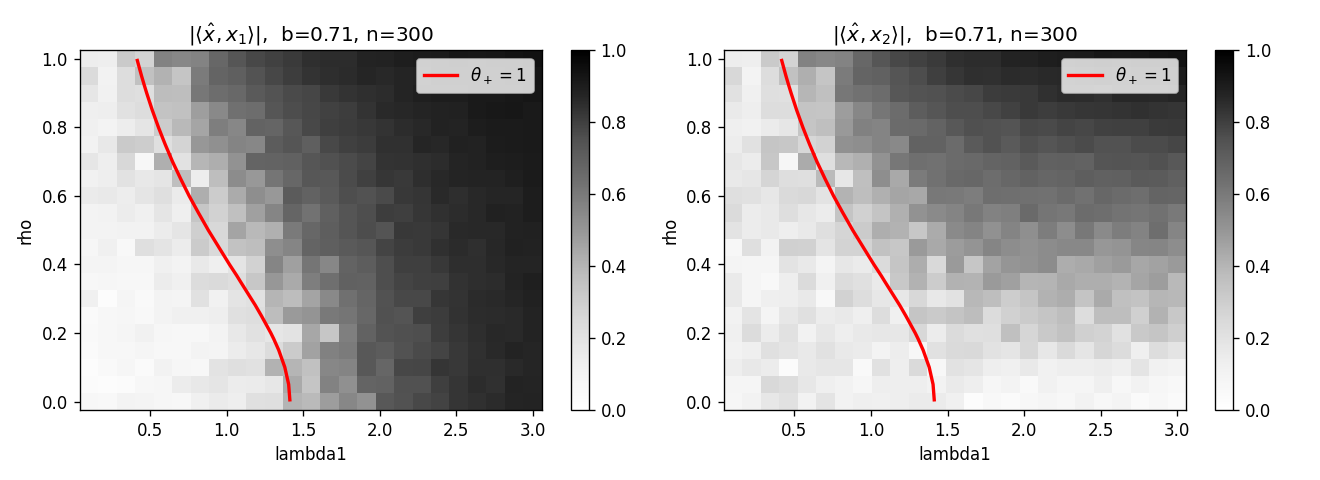
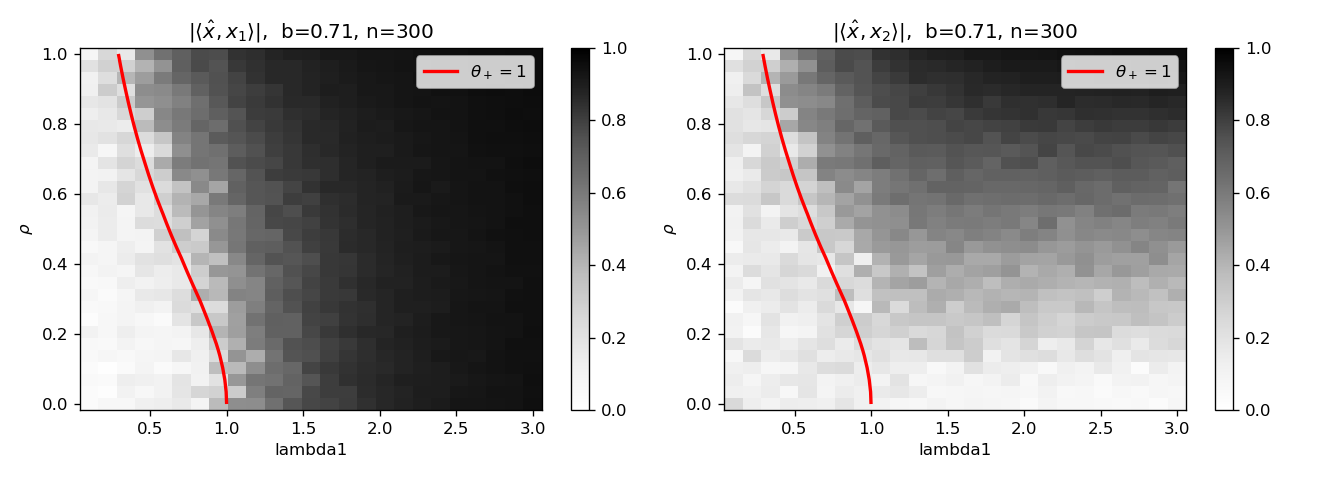
rapport et plots

diff --git a/Theory/Report/main.tex b/Theory/Report/main.tex
@@ -1,4 +1,8 @@
 \documentclass[11pt]{article}
+% macro.tex loads enumitem and geometry twice, the second time with options.
+% Loading them here first (with those options) avoids the fatal "Option clash".
+\usepackage[shortlabels]{enumitem}
+\usepackage[hmargin=2cm,vmargin=2cm]{geometry}
 
 \input{macro.tex}
 
@@ -32,7 +36,7 @@ We define the spiked model as
     \label{norm2}
 \end{equation}
 \end{defn}
-For two corrolated spikes, we define:
+For two correlated spikes, we define:
 \begin{defn}[Multi-Task Spiked Wigner Model]\leavevmode\\
     Let $\lambda_1, \lambda_2 \in \R$ the signal-to-noise ratio per task and $\vect x_1, \vect x_2 \in \R^n$, with $\norm{\vect x_1} = \norm{\vect x_2} = 1$ the correlated signals per task from a multivariate Gaussian Prior:
     \begin{align}
@@ -120,7 +124,7 @@ In particular, weak recovery by PCA is possible if and only if \(\lambda>1\).
 
 \subsection{Eigenvalues of the signal matrix}
 
-\paragraph{Reduction to a spiked Wigner model (splitting the observation into noiseless $+$ noise):}
+\paragraph{Reduction to a spiked Wigner model:}
 We study what the behaviour of a two correlated spike should theoretically be, and compare that to simulations.\\
 The observable splits into a noise part and a low rank signal part:
 \begin{equation}
@@ -136,24 +140,23 @@ Since $\rdmmat Z_1$ and $\rdmmat Z_2$ are independent with entries of variance $
 \noindent
 \textbf{Which matrix are we working with?} The whole section alternates between two different matrices, and it is worth fixing the vocabulary once and for all:
 \begin{itemize}[topsep=2pt,itemsep=1pt]
-    \item the \emph{noiseless} (or signal) matrix $\rdmmat P$, of rank at most two. It is not observable --- it is the object we can diagonalise exactly, in closed form, because it contains no randomness beyond the signals themselves;
+    \item the \emph{noiseless} (or signal) matrix $\rdmmat P$, of rank at most two. It is not observable, it is the object we can diagonalise exactly, in closed form, because it contains no randomness beyond the signals themselves;
     \item the \emph{noisy} (or observed) matrix $\rdmmat Y = \rdmmat P + \rdmmat W$. This is what we actually measure, and its spectrum can only be described asymptotically, through random matrix theory.
 \end{itemize}
-The strategy is: solve $\rdmmat P$ exactly (Sections up to \eqref{eq:overlaps-signals}), then feed that solution into the BBP theory to get $\rdmmat Y$ (from \eqref{eq:bbp} on). To keep the two apart, we reserve a distinct set of symbols for each:
+The strategy is: solve $\rdmmat P$ exactly, then feed that solution into the BBP theory to get $\rdmmat Y$. To keep the two apart, we reserve a distinct set of symbols for each:
 \begin{center}
 \begin{tabular}{l|l|l}
  & \textbf{noiseless} $\rdmmat P$ & \textbf{noisy} $\rdmmat Y = \rdmmat P + \rdmmat W$ \\
 \hline
 eigenvalues     & $\theta_\pm$ (exact, \eqref{eq:theta-pm})        & $\lambda^{\mathrm{out}}_\pm$ (asymptotic, \eqref{eq:bbp}) \\
-eigenvectors    & $\hat{\vect v}_\pm$ (exact, \eqref{eq:v-final})  & $\hat{\vect u}_\pm$ (asymptotic, \eqref{eq:bbp-vec}) \\
-top eigenvector & ---                                              & $\hat{\vect x} := \hat{\vect u}_+$, the estimator of the signals \\
-overlaps        & $\langle \hat{\vect v}_\pm, \vect{x_i}\rangle$, \eqref{eq:overlaps-signals} & $m_i = |\langle \hat{\vect x}, \vect{x_i}\rangle|$, \eqref{eq:m12} \\
+eigenvectors    & $\hat{\vect v}_\pm$ (exact, \eqref{eq:v-final})  & $\hat{\vect u}_\pm$ (asymptotic, \eqref{eq:bbp-vec}) = $\hat{\vect x}$ for naïve method only \\
+overlaps        & $|\langle \hat{\vect v}_\pm, \vect{x_i}\rangle|$, \eqref{eq:overlaps-signals} & $m_i = |\langle \hat{\vect x}, \vect{x_i}\rangle|$, \eqref{eq:m12} \\
 \end{tabular}
 \end{center}
 \noindent
 Note finally that $\lambda_1, \lambda_2$ always denote the signal-to-noise ratios of the two tasks, never eigenvalues; eigenvalues of $\rdmmat P$ are written $\theta$.
 
-\paragraph{Factorised form (noiseless $\rdmmat P$):}
+\paragraph{Factorised form:}
 Since $\rdmmat P$ is built from two rank 1 signals, it has a rank of at most two and its spectrum is determined by the plane $\operatorname{span}(\vect{x_1},\vect{x_2})$. We write
 \begin{equation}
     \rdmmat P = \rdmmat X \rdmmat K \rdmmat X^T
@@ -186,7 +189,7 @@ and as $\rdmmat{BA} = \rdmmat{KX^TX} $ so the non-zero eigenvalues of $\rdmmat P
 \end{equation}
 where $\rdmmat G$ is defined as shown above and we used $\|\vect{x_1}\| = \|\vect{x_2}\| = 1$. The remaining $n-2$ eigenvalues of $\rdmmat P$ are zero.
 
-\paragraph{Empirical vs theoretical overlap (signals only, no matrix involved):}
+\paragraph{Empirical vs theoretical overlap:}
 As the spikes are correlated, the pairs $(x_{1,i},x_{2,i})$ are i.i.d.\ with $\mathbb{E}[x_{1,i}x_{2,i}] = \rho$, so by the law of large numbers the empirical overlap concentrates around the correlation $\rho$:
 \begin{equation}
     \hat\rho = \frac{\langle \vect{x_1},\vect{x_2}\rangle}{\|\vect{x_1}\|\,\|\vect{x_2}\|} \xrightarrow[n\to\infty]{\text{a.s.}} \rho
@@ -233,7 +236,7 @@ We now derive the eigenvectors of $\rdmmat P$ in closed form. We assume $a, b > 
 \end{equation}
 and we assume $\Delta > 0$, i.e.\ we exclude the degenerate case $a = b$, $\rho = 0$, in which $\theta_+ = \theta_-$ and every vector of $\operatorname{span}(\vect{x_1},\vect{x_2})$ is an eigenvector.
 
-\paragraph{Going to the plane of the signals (méthode de Celia) --- still noiseless $\rdmmat P$:} Let $\vect v$ be a unit eigenvector of $\rdmmat P$ with eigenvalue $\theta \neq 0$. Since
+\paragraph{Going to the plane of the signals (méthode de Celia):} Let $\vect v$ be a unit eigenvector of $\rdmmat P$ with eigenvalue $\theta \neq 0$. Since
 \begin{equation}
     \rdmmat P \vect v = a\,\langle \vect{x_1}, \vect v\rangle\,\vect{x_1} + b\,\langle \vect{x_2}, \vect v\rangle\,\vect{x_2} = \theta\,\vect v ,
 \end{equation}
@@ -265,7 +268,7 @@ A non-trivial solution exists if and only if $\theta \in \{\theta_+, \theta_-\}$
 \end{equation}
 where the two expressions for $r_\pm$ agree precisely because of the characteristic equation. For the same reason, the second row of \eqref{eq:eig-system} is then automatically satisfied.
 
-\paragraph{Normalisation (noiseless $\rdmmat P$):} Using $\norm{\vect{x_1}} = \norm{\vect{x_2}} = 1$ and $\langle \vect{x_1},\vect{x_2}\rangle = \rho$,
+\paragraph{Normalization:} Using $\norm{\vect{x_1}} = \norm{\vect{x_2}} = 1$ and $\langle \vect{x_1},\vect{x_2}\rangle = \rho$,
 \begin{equation}
     \norm{\vect v}^2 = c_1^2 + 2\rho\, c_1 c_2 + c_2^2
     = c_2^2\,\big( r_\pm^2 + 2\rho\, r_\pm + 1 \big) = 1
@@ -274,7 +277,7 @@ where the two expressions for $r_\pm$ agree precisely because of the characteris
 \end{equation}
 The bracket is strictly positive, since $r^2 + 2\rho r + 1 = (r+\rho)^2 + 1 - \rho^2 > 0$.
 
-\paragraph{Final expression for the eigenvectors of the noiseless $\rdmmat P$:} Combining \eqref{eq:ratio} with the normalisation, the unit-norm eigenvectors of $\rdmmat P$ associated with $\theta_\pm$ are, up to an overall sign,
+\paragraph{Final expression for the eigenvectors of the noiseless $\rdmmat P$:} Combining \eqref{eq:ratio} with the normalization, the unit-norm eigenvectors of $\rdmmat P$ associated with $\theta_\pm$ are, up to an overall sign,
 \begin{equation}
     \hat{\vect v}_\pm = c_1^\pm\,\vect{x_1} + c_2^\pm\,\vect{x_2},
     \qquad
@@ -283,9 +286,6 @@ The bracket is strictly positive, since $r^2 + 2\rho r + 1 = (r+\rho)^2 + 1 - \r
     r_\pm = \frac{\rho\, a}{\theta_\pm - a} .
     \label{eq:v-final}
 \end{equation}
-In plain words: $\rdmmat P$ only acts inside the plane spanned by $\vect{x_1}$ and $\vect{x_2}$, so each of its two eigenvectors is simply a \emph{mixture} of the two signals. All the content of \eqref{eq:v-final} is the single number $r_\pm = c_1^\pm/c_2^\pm$, which fixes the weight of the mixture; the square root is only there to impose $\norm{\hat{\vect v}_\pm} = 1$, and it carries the extra term $2\rho\, r_\pm$ precisely because $\vect{x_1}$ and $\vect{x_2}$ are \emph{not} orthogonal. Since $\theta_+ \ge \max(a,b)$ and $\theta_- \le \min(a,b)$, we have $r_+ \ge 0$ and $r_- \le 0$: $\hat{\vect v}_+$ is the constructive combination of the two signals, and $\hat{\vect v}_-$ the destructive one. We insist that $\hat{\vect v}_\pm$ are eigenvectors of the \emph{noiseless} $\rdmmat P$; they are not observable, and they are not yet the estimator of the signals.
-
-\paragraph{The decoupled case $\rho = 0$ (noiseless $\rdmmat P$):} The ratio $r_\pm = \rho a/(\theta_\pm - a)$ becomes the indeterminate form $0/0$ when $\rho = 0$ and $\theta_\pm = a$, so at $\rho = 0$ it has to be read as a limit. It is cleaner to go back to \eqref{eq:eig-system}, which for $\rho = 0$ decouples into $a c_1 = \theta c_1$ and $b c_2 = \theta c_2$: then $\{\theta_+,\theta_-\} = \{a,b\}$ and the eigenvectors are $\vect{x_1}$ and $\vect{x_2}$ themselves, i.e.\ the two tasks separate completely. Numerically, the safe way to obtain $(c_1^\pm, c_2^\pm)$ for \emph{any} $\rho$ is to diagonalise the $2\times2$ matrix $\rdmmat K \rdmmat G$ directly instead of evaluating $r_\pm$.
 
 \paragraph{Overlaps of the noiseless eigenvectors with the signals:} The overlaps of $\hat{\vect v}_\pm$ with the signals follow directly from \eqref{eq:ansatz} and \eqref{eq:eig-system}, since $c_1 + \rho c_2 = \theta c_1/a$ and $\rho c_1 + c_2 = \theta c_2/b$:
 \begin{equation}
@@ -294,76 +294,61 @@ In plain words: $\rdmmat P$ only acts inside the plane spanned by $\vect{x_1}$ a
     \langle \hat{\vect v}_\pm, \vect{x_2}\rangle = \frac{\theta_\pm}{b}\, c_2^\pm .
     \label{eq:overlaps-signals}
 \end{equation}
-The point of \eqref{eq:overlaps-signals} is that the \emph{coefficients} $c_i^\pm$ (how much of each signal we put into the mixture) are not the same thing as the \emph{overlaps} $\langle \hat{\vect v}_\pm, \vect{x_i}\rangle$ (how much of each signal we actually see), again because $\vect{x_1}$ and $\vect{x_2}$ are not orthogonal; the factors $\theta_\pm/a$ and $\theta_\pm/b$ convert one into the other. Equation \eqref{eq:overlaps-signals} is the last exact, noiseless result of this section: everything that follows concerns the observed matrix $\rdmmat Y$ and holds only asymptotically.
+Eq. \eqref{eq:overlaps-signals} shows that the \emph{coefficients} $c_i^\pm$ (how much of each signal we put into the mixture) are not the same thing as the \emph{overlaps} $\langle \hat{\vect v}_\pm, \vect{x_i}\rangle$ (how much of each signal we actually see), because $\vect{x_1}$ and $\vect{x_2}$ are not orthogonal.
 
 \medskip
 \noindent
-Equation \eqref{eq:overlaps-signals} also gives a useful identity. Multiplying its first relation by $a\,\langle \hat{\vect v}_\pm, \vect{x_1}\rangle$, its second by $b\,\langle \hat{\vect v}_\pm, \vect{x_2}\rangle$, adding, and using the normalisation $c_1^2 + 2\rho c_1 c_2 + c_2^2 = 1$, we get
-\[
+Multiplying the first relation in Eq. \eqref{eq:overlaps-signals} by $a\,\langle \hat{\vect v}_\pm, \vect{x_1}\rangle$, its second by $b\,\langle \hat{\vect v}_\pm, \vect{x_2}\rangle$, adding, and using the normalization $c_1^2 + 2\rho c_1 c_2 + c_2^2 = 1$, we get
+\begin{equation}
     \theta_\pm \;=\; \hat{\vect v}_\pm^{\,T}\, \rdmmat P\, \hat{\vect v}_\pm
     \;=\; a\,\langle \hat{\vect v}_\pm, \vect{x_1}\rangle^2 + b\,\langle \hat{\vect v}_\pm, \vect{x_2}\rangle^2 .
-\]
-In other words, $\theta_\pm$ is exactly the signal-to-noise ratio of each task weighted by how well the direction $\hat{\vect v}_\pm$ captures that task. This is what makes $\theta_\pm$ an \emph{effective SNR}, and it is the bridge between the noiseless geometry \eqref{eq:overlaps-signals} and the noisy spectrum \eqref{eq:bbp} below: $\theta_\pm$ is computed entirely from $\rdmmat P$, but it is the only feature of $\rdmmat P$ that the spectrum of $\rdmmat Y$ remembers.
+    \label{eq:theta-pm-relation}
+\end{equation}
 
-\medskip
-\noindent
-Still on the noiseless side: since $\rdmmat P$ is symmetric and $\theta_+ \neq \theta_-$, the two eigenvectors $\hat{\vect v}_\pm$ are orthogonal. The remaining $n-2$ eigenvectors span $\operatorname{span}(\vect{x_1},\vect{x_2})^\perp$ and have eigenvalue $0$. For a finite $n$, all the expressions above hold exactly with $\rho$ replaced by the empirical overlap $\hat\rho$; by \eqref{eq:overlap}, the expressions written with $\rho$ are their $n \to \infty$ limits.
+\paragraph{TO PROOVE:}
+We now study the noisy matrix $\rdmmat Y = \rdmmat P + \rdmmat W$. As $\rdmmat P$ has rank at most two, it can only create at most two outliers. Also, $\rdmmat W$ is a Wigner matrix, hence orthogonally invariant, so no direction of $\R^n$ is singled out by the noise. Therefore, the outliers can depend on $\rdmmat P$ only through its non-zero eigenvalues $\theta_\pm$, and never through the directions $\hat{\vect v}_\pm$ \textcolor{red}{WHY ?} This is what allows us to reuse the rank-one theory of Theorem~\ref{thm:bbp}.
 
-\paragraph{Switching on the noise: the outliers of the noisy matrix $\rdmmat Y$.}
-We now leave the noiseless matrix and turn to the observed one. Because $\rdmmat W$ is a Wigner matrix (rotationally invariant Gaussian noise), the outlier eigenvalues of $\rdmmat Y = \rdmmat W + \rdmmat P$ depend on the finite-rank perturbation $\rdmmat P$ only through its non-zero eigenvalues $\theta_\pm$ \cite{benaychgeorges2011eigenvalues, capitaine2009largest}. The Baik--Ben Arous--P\'ech\'e (BBP) transition \cite{baik2005phase, feral2007largest} then applies to each $\theta_\pm$ separately: with the normalisation of Definition~\ref{def:spiked-wigner}, the semicircle bulk has edge $2$ and
+
 \begin{equation}
     \lambda_\pm^{\mathrm{out}} \xrightarrow[n\to\infty]{\text{a.s.}}
     \begin{cases}
         \theta_\pm + \dfrac{1}{\theta_\pm}, & \theta_\pm > 1, \\[6pt]
-        2, & \theta_\pm \le 1 .
+        2, & \theta_\pm \le 1 ,
     \end{cases}
     \label{eq:bbp}
 \end{equation}
-The practical reading of \eqref{eq:bbp} is that, as far as the spectrum of $\rdmmat Y$ is concerned, the two correlated tasks behave like two \emph{independent} rank-one spiked Wigner models with SNRs $\theta_+$ and $\theta_-$: Theorem~\ref{thm:bbp} applies verbatim with $\lambda$ replaced by $\theta_\pm$. The correlation therefore acts in both directions: it can push $\theta_+$ above the detection threshold even when $a$ and $b$ are individually sub-critical, while pushing $\theta_-$ deeper into the bulk. In the $(a,b)$ plane the detection boundary $\theta_+ = 1$ is obtained by setting $\theta = 1$ in the characteristic polynomial of $\rdmmat K\rdmmat G$, which gives the curve
-\begin{equation}
-    1 - (a+b) + ab\,(1-\rho^2) = 0 ,
-    \qquad \text{with } a + b \le 2,
-    \label{eq:boundary}
-\end{equation}
-the condition $a + b \le 2$ selecting the branch on which the root equal to $1$ is the \emph{larger} one (the two roots sum to $a+b$, so the other root is $a+b-1$). The branch $a+b \ge 2$ of the same curve is $\theta_- = 1$, where the second outlier appears. For $\rho = 0$ the curve \eqref{eq:boundary} factorises as $(1-a)(1-b) = 0$ and reduces to the two BBP half-lines $a = 1,\, b \le 1$ and $b = 1,\, a \le 1$; for $\rho = 1$ it reduces to the line $a + b = 1$.
+which is the BBP transition applied to each effective signal separately. So that the two correlated tasks behave like two \emph{independent} rank-one spiked Wigner models with \emph{strengh} $\theta_+$ and $\theta_-$, and \eqref{eq:bbp} is exactly Theorem~\ref{thm:bbp} with $\lambda$ replaced by $\theta_\pm$.
 
-\paragraph{The eigenvectors of the noisy matrix $\rdmmat Y$.}
-The same theory \cite{benaychgeorges2011eigenvalues} describes the eigenvectors of the noisy matrix. Let $\hat{\vect u}_\pm$ denote the unit eigenvector of $\rdmmat Y$ associated with $\lambda_\pm^{\mathrm{out}}$; it is the noisy counterpart of the noiseless $\hat{\vect v}_\pm$, and \eqref{eq:bbp-vec} below says how close the two are. When $\theta_\pm > 1$ (and $\theta_+ \neq \theta_-$),
+\paragraph{The eigenvectors of the noisy matrix $\rdmmat Y$:}
+Let $\hat{\vect u}_\pm$ denote the unit eigenvector of $\rdmmat Y$ associated with $\lambda_\pm^{\mathrm{out}}$; it is the noisy counterpart of the noiseless $\hat{\vect v}_\pm$. \textcolor{red}{TO PROOVE:}
 \begin{equation}
     |\langle \hat{\vect u}_\pm, \hat{\vect v}_\pm \rangle|^2 \xrightarrow[n\to\infty]{\text{a.s.}} 1 - \frac{1}{\theta_\pm^{2}},
     \qquad
     \langle \hat{\vect u}_\pm, \hat{\vect v}_\mp \rangle \xrightarrow[n\to\infty]{\text{a.s.}} 0 ,
     \label{eq:bbp-vec}
 \end{equation}
-while for $\theta_\pm \le 1$ the overlap with $\hat{\vect v}_\pm$ vanishes; this is again Theorem~\ref{thm:bbp} with $\lambda$ replaced by $\theta_\pm$.
+valid for $\theta_\pm > 1$. For $\theta_\pm \le 1$ the overlap vanishes.
 
-\medskip
-\noindent
-Combining the noiseless geometry with the noisy damping is now straightforward. The noiseless eigenvectors $\hat{\vect v}_+$ and $\hat{\vect v}_-$ form an orthonormal basis of $\operatorname{span}(\vect{x_1},\vect{x_2})$, so each signal decomposes as
+\paragraph{Overlap of the estimator with the signals.}
+The spectral estimator of the signals is the top eigenvector $\hat{\vect x} := \hat{\vect u}_+$ of the noisy matrix. Its overlap with $\vect{x_1}$ and $\vect{x_2}$ now follows by combining the noiseless geometry \eqref{eq:overlaps-signals} with the noisy damping \eqref{eq:bbp-vec}. Since $\hat{\vect v}_+$ and $\hat{\vect v}_-$ form an orthonormal basis of $\operatorname{span}(\vect{x_1},\vect{x_2})$, each signal decomposes as
 \[
-    \vect{x_i} = \langle \vect{x_i}, \hat{\vect v}_+\rangle \hat{\vect v}_+ + \langle \vect{x_i}, \hat{\vect v}_-\rangle \hat{\vect v}_- .
+    \vect{x_i} = \langle \vect{x_i}, \hat{\vect v}_+\rangle\, \hat{\vect v}_+ + \langle \vect{x_i}, \hat{\vect v}_-\rangle\, \hat{\vect v}_- ,
 \]
-Taking the scalar product with the top eigenvector $\hat{\vect x} := \hat{\vect u}_+$ of the \emph{noisy} matrix $\rdmmat Y$,
+and taking the scalar product with $\hat{\vect x}$, the component of $\hat{\vect x}$ orthogonal to the plane contributes nothing,
 \[
     \langle \hat{\vect x}, \vect{x_i}\rangle
-    = \underbrace{\langle \hat{\vect u}_+, \hat{\vect v}_+\rangle}_{\to\ \sqrt{1-\theta_+^{-2}}\ \text{by }\eqref{eq:bbp-vec}}
+    =\langle \hat{\vect u}_+, \hat{\vect v}_+\rangle
       \langle \hat{\vect v}_+, \vect{x_i}\rangle
-    + \underbrace{\langle \hat{\vect u}_+, \hat{\vect v}_-\rangle}_{\to\ 0\ \text{by }\eqref{eq:bbp-vec}}
-      \langle \hat{\vect v}_-, \vect{x_i}\rangle ,
+    \;+\; \langle \hat{\vect u}_+, \hat{\vect v}_-\rangle
+      \langle \hat{\vect v}_-, \vect{x_i}\rangle .
 \]
-where the component of $\hat{\vect x}$ orthogonal to the plane contributes nothing because $\vect{x_i}$ lies in the plane. With \eqref{eq:overlaps-signals} this gives
+Seeing that $\langle \hat{\vect u}_+, \hat{\vect v}_+\rangle\to\ \sqrt{1-\theta_+^{-2}}\ \text{by }\eqref{eq:bbp-vec}$ and $\langle \hat{\vect u}_+, \hat{\vect v}_-\rangle \to\ 0\ \text{by }\eqref{eq:bbp-vec}$. Substituting $\langle \hat{\vect v}_+, \vect{x_1}\rangle = (\theta_+/a)\,c_1^+$ and $\langle \hat{\vect v}_+, \vect{x_2}\rangle = (\theta_+/b)\,c_2^+$ from \eqref{eq:overlaps-signals},
 \begin{equation}
     m_1 := |\langle \hat{\vect x}, \vect{x_1}\rangle| \xrightarrow[n\to\infty]{\text{a.s.}} \sqrt{1-\theta_+^{-2}}\;\frac{\theta_+}{a}\,\lvert c_1^+ \rvert ,
     \qquad
     m_2 := |\langle \hat{\vect x}, \vect{x_2}\rangle| \xrightarrow[n\to\infty]{\text{a.s.}} \sqrt{1-\theta_+^{-2}}\;\frac{\theta_+}{b}\,\lvert c_2^+ \rvert ,
     \label{eq:m12}
 \end{equation}
-for $\theta_+ > 1$, and $m_1, m_2 \to 0$ for $\theta_+ \le 1$. The structure of \eqref{eq:m12} is worth emphasising: it is a product of two independent effects. The factor $\sqrt{1-\theta_+^{-2}}$ is the \emph{noise damping} --- how much of the direction $\hat{\vect v}_+$ survives the Wigner noise, and it is the same for both tasks. The factors $(\theta_+/a)|c_1^+|$ and $(\theta_+/b)|c_2^+|$ are the \emph{pure geometry} of the noiseless signal matrix, and they say how the single recovered direction is shared between $\vect{x_1}$ and $\vect{x_2}$, through the ratio $r_+ = c_1^+/c_2^+$.
-
-\medskip
-\noindent
-Detection by the top eigenvector is therefore possible if and only if $\theta_+ > 1$, i.e.\ above the curve \eqref{eq:boundary}. One caveat: above that curve $m_2 > 0$ always (since $c_2^+ \neq 0$), whereas $m_1 > 0$ requires $r_+ \neq 0$, i.e.\ $\rho > 0$. In the decoupled case $\rho = 0$ the top eigenvector aligns with the stronger signal only ($\vect{x_1}$ if $a > b$, $\vect{x_2}$ if $a < b$) and carries no information at all about the other one; recovering the weaker signal then requires the \emph{second} eigenvector, i.e.\ $\theta_- > 1$.
-
-\paragraph{Numerical check.} Equations \eqref{eq:v-final}--\eqref{eq:m12} are checked against simulations in \texttt{Theory/check\_bulk.py}, which uses exactly the same conventions ($a = \alpha\lambda_1$, $b = \sqrt{1-\alpha^2}\lambda_2$, unit-norm signals, semicircle edge at $2$) and obtains $(c_1^+,c_2^+)$ by diagonalising $\rdmmat K\rdmmat G$ rather than through $r_+$. Its simulations always build the \emph{noisy} $\rdmmat Y$ (\texttt{naive\_matrix} $= \alpha \rdmmat Y_1 + \sqrt{1-\alpha^2}\rdmmat Y_2$) and compare it to the theory curves; the noiseless $\hat{\vect v}_\pm$ enter only as the reference directions of \texttt{overlaps\_vs\_lambda.png}.
+for $\theta_+ > 1$, and $m_1, m_2 \to 0$ for $\theta_+ \le 1$.
 
 \end{document}

diff --git a/Theory/check_theory.py b/Theory/check_theory.py
@@ -40,38 +40,4 @@ def plot_overlap_vs_n(ax, a, b, rho):
     ax.set_title(f"a={a}, b={b}, rho={rho}"); ax.legend(); ax.grid()
 
 
-# ---- 1. overlap vs n, one parameter set -------------------------------
-fig, ax = plt.subplots()
-plot_overlap_vs_n(ax, a=2, b=3, rho=0.5)
-fig.savefig("overlap_vs_n.png", dpi=120)
 
-# ---- 2. overlap vs n, varying a, b, rho -------------------------------
-PARAMS = [(2, 3, 0.1), (2, 3, 0.9), (1, 4, 0.5), (3, 3, 0.5)]
-fig, axes = plt.subplots(1, len(PARAMS), figsize=(4 * len(PARAMS), 3.5), sharey=True)
-for ax, (a, b, rho) in zip(axes, PARAMS):
-    plot_overlap_vs_n(ax, a, b, rho)
-fig.tight_layout(); fig.savefig("overlap_vs_n_params.png", dpi=120)
-
-# ---- 3. eigenvalues of P vs a, b, rho: theory vs numerics -------------
-n, SIMS = 500, 30                      # SIMS simulations per point, error bars = std
-base = dict(a=2.0, b=3.0, rho=0.5)
-sweeps = dict(a=np.linspace(0.1, 5, 40), b=np.linspace(0.1, 5, 40), rho=np.linspace(0, 1, 40))
-fig, axes = plt.subplots(1, 3, figsize=(13, 3.5))
-for ax, (name, grid) in zip(axes, sweeps.items()):
-    p = dict(base)
-    th, num = [], []
-    for val in grid:
-        p[name] = val
-        runs = [make(n, **p).eigen_P()[0][:2] for _ in range(SIMS)]
-        th.append(make(n, **p).theory_eig())
-        num.append((np.mean(runs, 0), np.std(runs, 0)))
-    th, num = np.array(th), np.array(num)          # num: (points, mean/std, 2)
-    ax.plot(grid, th[:, 0], "k--", label="theory")
-    ax.plot(grid, th[:, 1], "k--")
-    ax.errorbar(grid, num[:, 0, 0], num[:, 1, 0], color="C0", capsize=2, lw=1, label=r"$\theta_+$ simulation")
-    ax.errorbar(grid, num[:, 0, 1], num[:, 1, 1], color="C1", capsize=2, lw=1, label=r"$\theta_-$ simulation")
-    others = ", ".join(f"{k}={v}" for k, v in base.items() if k != name)
-    ax.set_xlabel(name); ax.set_ylabel("eigenvalue of P"); ax.set_title(f"n={n}, {others}")
-    ax.grid(); ax.legend(fontsize=8)
-fig.tight_layout(); fig.savefig("eigenvalues_P.png", dpi=120)
-plt.show()

diff --git a/Theory/check_bulk.py b/Theory/check_bulk.py
@@ -92,7 +92,7 @@ def fig_eig(n=500, sims=30):
     fig.tight_layout(); fig.savefig("eigenvalues_Y.png", dpi=120)
 
 
-def fig_lambda(n=500, rho=0.3, sims=30):
+def fig_lambda(n=1000, rho=0.3, sims=30):
     """BBP eigenvector check vs lambda (lambda1 = lambda2 = lambda, so a = b = lambda/sqrt2
     and theta_pm = a(1 +- rho)).
 
@@ -137,17 +137,17 @@ def fig_lambda(n=500, rho=0.3, sims=30):
 
 def heat(xname, xs, b_fixed, fname, n=300, reps=4):
     """Heatmaps of |<x_hat,x1>|, |<x_hat,x2>| vs (x, rho); x is lambda1 or a; b fixed."""
-    rhos = np.linspace(0, 1, 21)
-    A = xs * ALPHA if xname == "lambda1" else xs
-    Z = np.array([[sample_overlaps(n, a, b_fixed, r, reps) for a in A] for r in rhos])  # (rho, x, 2)
+    rhos = np.linspace(0, 1, 30)
+    A = xs * ALPHA if xname == r"\lambda_1" else xs
+    Z = np.array([[sample_overlaps(n, a, b_fixed, r, reps) for a in A] for r in rhos])  # (rho, x, 2)       We are using Y noisy here
     X, R = np.meshgrid(xs, rhos)
-    tp, _ = theta_pm(X * ALPHA if xname == "lambda1" else X, b_fixed, R)
+    tp, _ = theta_pm(X * ALPHA if xname == r"\lambda_1" else X, b_fixed, R)
     fig, axes = plt.subplots(1, 2, figsize=(11, 4))
     for k, ax in enumerate(axes):
         im = ax.pcolormesh(xs, rhos, Z[:, :, k], cmap="Greys", vmin=0, vmax=1, shading="nearest")
         ax.contour(X, R, tp, levels=[1], colors="red", linewidths=2)
         ax.plot([], [], color="red", lw=2, label=r"$\theta_+=1$")     # legend entry for the contour
-        ax.set_xlabel(xname); ax.set_ylabel("rho"); ax.legend(loc="upper right")
+        ax.set_xlabel(xname); ax.set_ylabel(r"$\rho$"); ax.legend(loc="upper right")
         ax.set_title(rf"$|\langle \hat x, x_{k+1}\rangle|$,  b={b_fixed:.2f}, n={n}")
         fig.colorbar(im, ax=ax)
     fig.tight_layout(); fig.savefig(fname, dpi=120)
